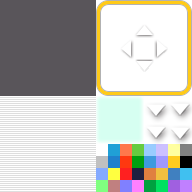
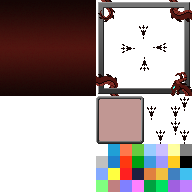
updated window skin
swaggy window skin from hiddenone

diff --git a/js/plugins.js b/js/plugins.js
@@ -189,7 +189,7 @@ var $plugins =
 {"name":"YEP_CommonEventMenu","status":true,"description":"v1.04 This plugin allows the creation of windows to call\ncommon events with.","parameters":{"---Defaults---":"","Default Icon":"188","Default Help":"Use <Help Description> comment tag to add a help description.","Default Subtext":"Subtext here!","Default Cancel Event":"0","---Main Settings---":"","Window X":"0","Window Y":"this.fittingHeight(2)","Window Width":"Graphics.boxWidth / 2","Window Height":"Graphics.boxHeight - this.fittingHeight(2)","Window Columns":"1","Window Opacity":"255","---Help Settings---":"","Show Help":"true","Help X":"0","Help Y":"0","Help Width":"Graphics.boxWidth","Help Height":"this.fittingHeight(2)","Help Opacity":"255","---Picture Settings---":"","Show Picture":"true","Picture X":"Graphics.boxWidth / 2","Picture Y":"this.fittingHeight(2)","Picture Width":"Graphics.boxWidth / 2","Picture Height":"this.fittingHeight(10)","Picture Opacity":"255","---Subtext Settings---":"","Show Subtext":"true","Subtext X":"Graphics.boxWidth / 2","Subtext Y":"Graphics.boxHeight - height","Subtext Width":"Graphics.boxWidth / 2","Subtext Height":"Graphics.boxHeight - this.fittingHeight(2) - this.fittingHeight(10)","Subtext Opacity":"255"}},
 {"name":"YEP_X_CEMSetupPack1","status":true,"description":"v1.00 (Requires YEP_CommonEventMenu.js) Adds more setups\nto use with the Common Event Menu.","parameters":{}},
 {"name":"YEP_X_CEMSetupPack2","status":true,"description":"v1.01 (Requires YEP_CommonEventMenu.js) Adds more setups\nto use with the Common Event Menu.","parameters":{}},
-{"name":"YEP_CreditsPage","status":true,"description":"v1.02 Adds a 'Credits' command to the title screen that\nwill take the player to a credits scene.","parameters":{"---General---":"","Command Name":"Credits","---Credit Lines---":"","Line 1 Text":"(Pressing SPACE on some entries redirects you to the source.)","Line 1 URL":"","Line 2 Text":"\\c[14]--- General Credits ---","Line 2 URL":"","Line 3 Text":"\\c[4]Project Lead\\c[0]: Andrew Pavel","Line 3 URL":"","Line 4 Text":"\\c[4]Programmer\\c[0]: Andrew Pavel","Line 4 URL":"","Line 5 Text":"\\c[4]Doer Of Everything Someone Didn't Do\\c[0]: Brendan Craig","Line 5 URL":"","Line 6 Text":"\\c[4]Core Scripts\\c[0]: Yanfly","Line 6 URL":"http://yanfly.moe","Line 7 Text":"\\c[14]--- Areas ---","Line 7 URL":"","Line 8 Text":"There's too many areas in the game to list here!","Line 8 URL":"","Line 9 Text":"If you want to know who made a specific area, ask in the Discord.","Line 9 URL":"","Line 10 Text":"If you need the link, see the very bottom of this page.","Line 10 URL":"","Line 11 Text":"\\c[14]--- Graphics ---","Line 11 URL":"","Line 12 Text":"\\c[4]Slime Base, Skeleton Base (Overhead)\\c[0]: Chalkdust","Line 12 URL":"https://forums.rpgmakerweb.com/index.php?threads/chalkdust-resources.47335/","Line 13 Text":"\\c[4]Skeleton Base, Soldier (Battle)\\c[0]: Aleph Null","Line 13 URL":"https://forums.rpgmakerweb.com/index.php?threads/aleph-nulls-resources-update-7-3-16-weapon-icons.63331/","Line 14 Text":"\\c[4]Character Helmet\\c[0]: KaiWeWi","Line 14 URL":"https://forums.rpgmakerweb.com/index.php?threads/kais-resources-for-mv.78751/","Line 15 Text":"\\c[4]Non-RTP Animals, Weapons\\c[0]: whtdragon","Line 15 URL":"https://forums.rpgmakerweb.com/index.php?threads/whtdragons-animals-and-running-horses-now-with-more-dragons.53552/","Line 16 Text":"\\c[4]Military on Horses\\c[0]: Avery","Line 16 URL":"https://forums.rpgmakerweb.com/index.php?threads/avys-mv-stuff.53317/","Line 17 Text":"\\c[4]Goblins, Suffering Soul\\c[0]: hiddenone","Line 17 URL":"https://www.hiddenone-sprites.com/other-mv-resources.html","Line 18 Text":"\\c[4]Mask Generator Part\\c[0]: Bokou","Line 18 URL":"https://forums.rpgmakerweb.com/index.php?threads/bokous-freesources-added-gothic-tileset.48613/","Line 19 Text":"\\c[4]Evil SV Battlers\\c[0]: RavenBlackbird","Line 19 URL":"https://forums.rpgmakerweb.com/index.php?threads/sprited-sv_enemies.60465/","Line 20 Text":"\\c[14]--- Plugins ---","Line 20 URL":"","Line 21 Text":"\\c[4]Meta Controls\\c[0]: Fallen Angel Olivia","Line 21 URL":"https://fallenangelolivia.itch.io/meta-controls","Line 22 Text":"\\c[4]DisableOrChangeBattleStartSound\\c[0]: DreamX","Line 22 URL":"https://raw.githubusercontent.com/DreamXRMMV/Rpg-Maker-MV/master/DreamX_BattleSE.js","Line 23 Text":"\\c[4]Minimum Damage\\c[0]: Mr. Trivel","Line 23 URL":"https://www.rpgmakercentral.com/topic/35423-minimum-damage/","Line 24 Text":"\\c[4]Restore HP/MP on level up\\c[0]: Mr. Trivel","Line 24 URL":"https://www.rpgmakercentral.com/topic/37738-restore-hpmptp/","Line 25 Text":"\\c[4]Version Indicator, Extra Stats\\c[0]: Casper Gaming","Line 25 URL":"http://www.caspergaming.com/dev/cgmv/","Line 26 Text":"\\c[4]Game Over Core, Retry Upgrade, STE, Shaky Text\\c[0]: SumRndmDde","Line 26 URL":"http://sumrndm.site","Line 27 Text":"\\c[4]Alphabetical Sort\\c[0]: Melosx","Line 27 URL":"https://forums.rpgmakerweb.com/index.php?threads/msx-alphabetical-sort.73991/","Line 28 Text":"\\c[4]Performance Upgrade\\c[0]: RPG Maker Irina","Line 28 URL":"https://atelieririna.itch.io/performance-upgrade","Line 29 Text":"\\c[4]Auto Message Colors\\c[0]: RPG Maker Irina","Line 29 URL":"https://atelieririna.itch.io/automatic-message-colors-plugin","Line 30 Text":"\\c[4]Smooth Camera, Menu Fade, Move Route Extras\\c[0]: Galv","Line 30 URL":"https://galvs-scripts.com/","Line 31 Text":"\\c[4]FixPixel.js\\c[0]: Sparckman","Line 31 URL":"https://sparckmantutorials.weebly.com/rpg-maker.html","Line 32 Text":"\\c[4]LargeSpriteFix\\c[0]: Neon Black, Shaz","Line 32 URL":"https://forums.rpgmakerweb.com/index.php?threads/neon-blacks-large-sprite-fix.50274/","Line 33 Text":"\\c[4]Reload Confirm\\[0]: LadyBaskerville","Line 33 URL":"https://forums.rpgmakerweb.com/index.php?threads/confirm-reload.72679/","Line 34 Text":"\\c[4]UltraMode7\\c[0]: Boris \"Blizzard\" Mikić","Line 34 URL":"https://forums.rpgmakerweb.com/index.php?threads/ultra-mode-7.94100/","Line 35 Text":"\\c[4]SkipPartyCommand\\c[0]: Tsumio","Line 35 URL":"https://forums.rpgmakerweb.com/index.php?threads/skippartycommand.102821/","Line 36 Text":"\\c[14]--- Odd Jobs---","Line 36 URL":"","Line 37 Text":"Thanks to everyone who contributed!","Line 37 URL":"","Line 38 Text":"\\c[4]Brendan Craig","Line 38 URL":"","Line 39 Text":"\\c[4]Edgar Moore","Line 39 URL":"","Line 40 Text":"\\c[4]Andrew Pavel","Line 40 URL":"","Line 41 Text":"\\c[4]Mankeerat Rataul","Line 41 URL":"","Line 42 Text":"\\c[14]--- Acknowledgements ---","Line 42 URL":"","Line 43 Text":"\\c[4]Thanks to everyone who helped test the game.","Line 43 URL":"","Line 44 Text":"Check out our \\c[18]Discord\\c[0] at \\c[4]https://discord.gg/Ptp66Yx","Line 44 URL":"https://discord.gg/Ptp66Yx","Line 45 Text":"","Line 45 URL":"","Line 46 Text":"","Line 46 URL":"","Line 47 Text":"","Line 47 URL":"","Line 48 Text":"","Line 48 URL":"","Line 49 Text":"","Line 49 URL":"","Line 50 Text":"","Line 50 URL":"","Line 51 Text":"","Line 51 URL":"","Line 52 Text":"","Line 52 URL":"","Line 53 Text":"","Line 53 URL":"","Line 54 Text":"","Line 54 URL":"","Line 55 Text":"","Line 55 URL":"","Line 56 Text":"","Line 56 URL":"","Line 57 Text":"","Line 57 URL":"","Line 58 Text":"","Line 58 URL":"","Line 59 Text":"","Line 59 URL":"","Line 60 Text":"","Line 60 URL":"","Line 61 Text":"","Line 61 URL":"","Line 62 Text":"","Line 62 URL":"","Line 63 Text":"","Line 63 URL":"","Line 64 Text":"","Line 64 URL":"","Line 65 Text":"","Line 65 URL":"","Line 66 Text":"","Line 66 URL":"","Line 67 Text":"","Line 67 URL":"","Line 68 Text":"","Line 68 URL":"","Line 69 Text":"","Line 69 URL":"","Line 70 Text":"","Line 70 URL":"","Line 71 Text":"","Line 71 URL":"","Line 72 Text":"","Line 72 URL":"","Line 73 Text":"","Line 73 URL":"","Line 74 Text":"","Line 74 URL":"","Line 75 Text":"","Line 75 URL":"","Line 76 Text":"","Line 76 URL":"","Line 77 Text":"","Line 77 URL":"","Line 78 Text":"","Line 78 URL":"","Line 79 Text":"","Line 79 URL":"","Line 80 Text":"","Line 80 URL":"","Line 81 Text":"","Line 81 URL":"","Line 82 Text":"","Line 82 URL":"","Line 83 Text":"","Line 83 URL":"","Line 84 Text":"","Line 84 URL":"","Line 85 Text":"","Line 85 URL":"","Line 86 Text":"","Line 86 URL":"","Line 87 Text":"","Line 87 URL":"","Line 88 Text":"","Line 88 URL":"","Line 89 Text":"","Line 89 URL":"","Line 90 Text":"","Line 90 URL":"","Line 91 Text":"","Line 91 URL":"","Line 92 Text":"","Line 92 URL":"","Line 93 Text":"","Line 93 URL":"","Line 94 Text":"","Line 94 URL":"","Line 95 Text":"","Line 95 URL":"","Line 96 Text":"","Line 96 URL":"","Line 97 Text":"","Line 97 URL":"","Line 98 Text":"","Line 98 URL":"","Line 99 Text":"","Line 99 URL":"","Line 100 Text":"","Line 100 URL":"","Line 101 Text":"","Line 101 URL":"","Line 102 Text":"","Line 102 URL":"","Line 103 Text":"","Line 103 URL":"","Line 104 Text":"","Line 104 URL":"","Line 105 Text":"","Line 105 URL":"","Line 106 Text":"","Line 106 URL":"","Line 107 Text":"","Line 107 URL":"","Line 108 Text":"","Line 108 URL":"","Line 109 Text":"","Line 109 URL":"","Line 110 Text":"","Line 110 URL":"","Line 111 Text":"","Line 111 URL":"","Line 112 Text":"","Line 112 URL":"","Line 113 Text":"","Line 113 URL":"","Line 114 Text":"","Line 114 URL":"","Line 115 Text":"","Line 115 URL":"","Line 116 Text":"","Line 116 URL":"","Line 117 Text":"","Line 117 URL":"","Line 118 Text":"","Line 118 URL":"","Line 119 Text":"","Line 119 URL":"","Line 120 Text":"","Line 120 URL":"","Line 121 Text":"","Line 121 URL":"","Line 122 Text":"","Line 122 URL":"","Line 123 Text":"","Line 123 URL":"","Line 124 Text":"","Line 124 URL":"","Line 125 Text":"","Line 125 URL":"","Line 126 Text":"","Line 126 URL":"","Line 127 Text":"","Line 127 URL":"","Line 128 Text":"","Line 128 URL":"","Line 129 Text":"","Line 129 URL":"","Line 130 Text":"","Line 130 URL":"","Line 131 Text":"","Line 131 URL":"","Line 132 Text":"","Line 132 URL":"","Line 133 Text":"","Line 133 URL":"","Line 134 Text":"","Line 134 URL":"","Line 135 Text":"","Line 135 URL":"","Line 136 Text":"","Line 136 URL":"","Line 137 Text":"","Line 137 URL":"","Line 138 Text":"","Line 138 URL":"","Line 139 Text":"","Line 139 URL":"","Line 140 Text":"","Line 140 URL":"","Line 141 Text":"","Line 141 URL":"","Line 142 Text":"","Line 142 URL":"","Line 143 Text":"","Line 143 URL":"","Line 144 Text":"","Line 144 URL":"","Line 145 Text":"","Line 145 URL":"","Line 146 Text":"","Line 146 URL":"","Line 147 Text":"","Line 147 URL":"","Line 148 Text":"","Line 148 URL":"","Line 149 Text":"","Line 149 URL":"","Line 150 Text":"","Line 150 URL":"","Line 151 Text":"","Line 151 URL":"","Line 152 Text":"","Line 152 URL":"","Line 153 Text":"","Line 153 URL":"","Line 154 Text":"","Line 154 URL":"","Line 155 Text":"","Line 155 URL":"","Line 156 Text":"","Line 156 URL":"","Line 157 Text":"","Line 157 URL":"","Line 158 Text":"","Line 158 URL":"","Line 159 Text":"","Line 159 URL":"","Line 160 Text":"","Line 160 URL":"","Line 161 Text":"","Line 161 URL":"","Line 162 Text":"","Line 162 URL":"","Line 163 Text":"","Line 163 URL":"","Line 164 Text":"","Line 164 URL":"","Line 165 Text":"","Line 165 URL":"","Line 166 Text":"","Line 166 URL":"","Line 167 Text":"","Line 167 URL":"","Line 168 Text":"","Line 168 URL":"","Line 169 Text":"","Line 169 URL":"","Line 170 Text":"","Line 170 URL":"","Line 171 Text":"","Line 171 URL":"","Line 172 Text":"","Line 172 URL":"","Line 173 Text":"","Line 173 URL":"","Line 174 Text":"","Line 174 URL":"","Line 175 Text":"","Line 175 URL":"","Line 176 Text":"","Line 176 URL":"","Line 177 Text":"","Line 177 URL":"","Line 178 Text":"","Line 178 URL":"","Line 179 Text":"","Line 179 URL":"","Line 180 Text":"","Line 180 URL":"","Line 181 Text":"","Line 181 URL":"","Line 182 Text":"","Line 182 URL":"","Line 183 Text":"","Line 183 URL":"","Line 184 Text":"","Line 184 URL":"","Line 185 Text":"","Line 185 URL":"","Line 186 Text":"","Line 186 URL":"","Line 187 Text":"","Line 187 URL":"","Line 188 Text":"","Line 188 URL":"","Line 189 Text":"","Line 189 URL":"","Line 190 Text":"","Line 190 URL":"","Line 191 Text":"","Line 191 URL":"","Line 192 Text":"","Line 192 URL":"","Line 193 Text":"","Line 193 URL":"","Line 194 Text":"","Line 194 URL":"","Line 195 Text":"","Line 195 URL":"","Line 196 Text":"","Line 196 URL":"","Line 197 Text":"","Line 197 URL":"","Line 198 Text":"","Line 198 URL":"","Line 199 Text":"","Line 199 URL":"","Line 200 Text":"","Line 200 URL":"","Line 201 Text":"","Line 201 URL":"","Line 202 Text":"","Line 202 URL":"","Line 203 Text":"","Line 203 URL":"","Line 204 Text":"","Line 204 URL":"","Line 205 Text":"","Line 205 URL":"","Line 206 Text":"","Line 206 URL":"","Line 207 Text":"","Line 207 URL":"","Line 208 Text":"","Line 208 URL":"","Line 209 Text":"","Line 209 URL":"","Line 210 Text":"","Line 210 URL":"","Line 211 Text":"","Line 211 URL":"","Line 212 Text":"","Line 212 URL":"","Line 213 Text":"","Line 213 URL":"","Line 214 Text":"","Line 214 URL":"","Line 215 Text":"","Line 215 URL":"","Line 216 Text":"","Line 216 URL":"","Line 217 Text":"","Line 217 URL":"","Line 218 Text":"","Line 218 URL":"","Line 219 Text":"","Line 219 URL":"","Line 220 Text":"","Line 220 URL":"","Line 221 Text":"","Line 221 URL":"","Line 222 Text":"","Line 222 URL":"","Line 223 Text":"","Line 223 URL":"","Line 224 Text":"","Line 224 URL":"","Line 225 Text":"","Line 225 URL":"","Line 226 Text":"","Line 226 URL":"","Line 227 Text":"","Line 227 URL":"","Line 228 Text":"","Line 228 URL":"","Line 229 Text":"","Line 229 URL":"","Line 230 Text":"","Line 230 URL":"","Line 231 Text":"","Line 231 URL":"","Line 232 Text":"","Line 232 URL":"","Line 233 Text":"","Line 233 URL":"","Line 234 Text":"","Line 234 URL":"","Line 235 Text":"","Line 235 URL":"","Line 236 Text":"","Line 236 URL":"","Line 237 Text":"","Line 237 URL":"","Line 238 Text":"","Line 238 URL":"","Line 239 Text":"","Line 239 URL":"","Line 240 Text":"","Line 240 URL":"","Line 241 Text":"","Line 241 URL":"","Line 242 Text":"","Line 242 URL":"","Line 243 Text":"","Line 243 URL":"","Line 244 Text":"","Line 244 URL":"","Line 245 Text":"","Line 245 URL":"","Line 246 Text":"","Line 246 URL":"","Line 247 Text":"","Line 247 URL":"","Line 248 Text":"","Line 248 URL":"","Line 249 Text":"","Line 249 URL":"","Line 250 Text":"","Line 250 URL":"","Line 251 Text":"","Line 251 URL":"","Line 252 Text":"","Line 252 URL":"","Line 253 Text":"","Line 253 URL":"","Line 254 Text":"","Line 254 URL":"","Line 255 Text":"","Line 255 URL":"","Line 256 Text":"","Line 256 URL":"","Line 257 Text":"","Line 257 URL":"","Line 258 Text":"","Line 258 URL":"","Line 259 Text":"","Line 259 URL":"","Line 260 Text":"","Line 260 URL":"","Line 261 Text":"","Line 261 URL":"","Line 262 Text":"","Line 262 URL":"","Line 263 Text":"","Line 263 URL":"","Line 264 Text":"","Line 264 URL":"","Line 265 Text":"","Line 265 URL":"","Line 266 Text":"","Line 266 URL":"","Line 267 Text":"","Line 267 URL":"","Line 268 Text":"","Line 268 URL":"","Line 269 Text":"","Line 269 URL":"","Line 270 Text":"","Line 270 URL":"","Line 271 Text":"","Line 271 URL":"","Line 272 Text":"","Line 272 URL":"","Line 273 Text":"","Line 273 URL":"","Line 274 Text":"","Line 274 URL":"","Line 275 Text":"","Line 275 URL":"","Line 276 Text":"","Line 276 URL":"","Line 277 Text":"","Line 277 URL":"","Line 278 Text":"","Line 278 URL":"","Line 279 Text":"","Line 279 URL":"","Line 280 Text":"","Line 280 URL":"","Line 281 Text":"","Line 281 URL":"","Line 282 Text":"","Line 282 URL":"","Line 283 Text":"","Line 283 URL":"","Line 284 Text":"","Line 284 URL":"","Line 285 Text":"","Line 285 URL":"","Line 286 Text":"","Line 286 URL":"","Line 287 Text":"","Line 287 URL":"","Line 288 Text":"","Line 288 URL":"","Line 289 Text":"","Line 289 URL":"","Line 290 Text":"","Line 290 URL":"","Line 291 Text":"","Line 291 URL":"","Line 292 Text":"","Line 292 URL":"","Line 293 Text":"","Line 293 URL":"","Line 294 Text":"","Line 294 URL":"","Line 295 Text":"","Line 295 URL":"","Line 296 Text":"","Line 296 URL":"","Line 297 Text":"","Line 297 URL":"","Line 298 Text":"","Line 298 URL":"","Line 299 Text":"","Line 299 URL":"","Line 300 Text":"","Line 300 URL":""}},
+{"name":"YEP_CreditsPage","status":true,"description":"v1.02 Adds a 'Credits' command to the title screen that\nwill take the player to a credits scene.","parameters":{"---General---":"","Command Name":"Credits","---Credit Lines---":"","Line 1 Text":"(Pressing SPACE on some entries redirects you to the source.)","Line 1 URL":"","Line 2 Text":"\\c[14]--- General Credits ---","Line 2 URL":"","Line 3 Text":"\\c[4]Project Lead\\c[0]: Andrew Pavel","Line 3 URL":"","Line 4 Text":"\\c[4]Programmer\\c[0]: Andrew Pavel","Line 4 URL":"","Line 5 Text":"\\c[4]Doer Of Everything Someone Didn't Do\\c[0]: Brendan Craig","Line 5 URL":"","Line 6 Text":"\\c[4]Core Scripts\\c[0]: Yanfly","Line 6 URL":"http://yanfly.moe","Line 7 Text":"\\c[14]--- Areas ---","Line 7 URL":"","Line 8 Text":"There's too many areas in the game to list here!","Line 8 URL":"","Line 9 Text":"If you want to know who made a specific area, ask in the Discord.","Line 9 URL":"","Line 10 Text":"If you need the link, see the very bottom of this page.","Line 10 URL":"","Line 11 Text":"\\c[14]--- Graphics ---","Line 11 URL":"","Line 12 Text":"\\c[4]Slime Base, Skeleton Base (Overhead)\\c[0]: Chalkdust","Line 12 URL":"https://forums.rpgmakerweb.com/index.php?threads/chalkdust-resources.47335/","Line 13 Text":"\\c[4]Skeleton Base, Soldier (Battle)\\c[0]: Aleph Null","Line 13 URL":"https://forums.rpgmakerweb.com/index.php?threads/aleph-nulls-resources-update-7-3-16-weapon-icons.63331/","Line 14 Text":"\\c[4]Character Helmet\\c[0]: KaiWeWi","Line 14 URL":"https://forums.rpgmakerweb.com/index.php?threads/kais-resources-for-mv.78751/","Line 15 Text":"\\c[4]Non-RTP Animals, Weapons\\c[0]: whtdragon","Line 15 URL":"https://forums.rpgmakerweb.com/index.php?threads/whtdragons-animals-and-running-horses-now-with-more-dragons.53552/","Line 16 Text":"\\c[4]Military on Horses\\c[0]: Avery","Line 16 URL":"https://forums.rpgmakerweb.com/index.php?threads/avys-mv-stuff.53317/","Line 17 Text":"\\c[4]Goblins, Suffering Soul, Window Skin\\c[0]: hiddenone","Line 17 URL":"https://www.hiddenone-sprites.com/other-mv-resources.html","Line 18 Text":"\\c[4]Mask Generator Part\\c[0]: Bokou","Line 18 URL":"https://forums.rpgmakerweb.com/index.php?threads/bokous-freesources-added-gothic-tileset.48613/","Line 19 Text":"\\c[4]Evil SV Battlers\\c[0]: RavenBlackbird","Line 19 URL":"https://forums.rpgmakerweb.com/index.php?threads/sprited-sv_enemies.60465/","Line 20 Text":"\\c[14]--- Plugins ---","Line 20 URL":"","Line 21 Text":"\\c[4]Meta Controls\\c[0]: Fallen Angel Olivia","Line 21 URL":"https://fallenangelolivia.itch.io/meta-controls","Line 22 Text":"\\c[4]DisableOrChangeBattleStartSound\\c[0]: DreamX","Line 22 URL":"https://raw.githubusercontent.com/DreamXRMMV/Rpg-Maker-MV/master/DreamX_BattleSE.js","Line 23 Text":"\\c[4]Minimum Damage\\c[0]: Mr. Trivel","Line 23 URL":"https://www.rpgmakercentral.com/topic/35423-minimum-damage/","Line 24 Text":"\\c[4]Restore HP/MP on level up\\c[0]: Mr. Trivel","Line 24 URL":"https://www.rpgmakercentral.com/topic/37738-restore-hpmptp/","Line 25 Text":"\\c[4]Version Indicator, Extra Stats\\c[0]: Casper Gaming","Line 25 URL":"http://www.caspergaming.com/dev/cgmv/","Line 26 Text":"\\c[4]Game Over Core, Retry Upgrade, STE, Shaky Text\\c[0]: SumRndmDde","Line 26 URL":"http://sumrndm.site","Line 27 Text":"\\c[4]Alphabetical Sort\\c[0]: Melosx","Line 27 URL":"https://forums.rpgmakerweb.com/index.php?threads/msx-alphabetical-sort.73991/","Line 28 Text":"\\c[4]Performance Upgrade\\c[0]: RPG Maker Irina","Line 28 URL":"https://atelieririna.itch.io/performance-upgrade","Line 29 Text":"\\c[4]Auto Message Colors\\c[0]: RPG Maker Irina","Line 29 URL":"https://atelieririna.itch.io/automatic-message-colors-plugin","Line 30 Text":"\\c[4]Smooth Camera, Menu Fade, Move Route Extras\\c[0]: Galv","Line 30 URL":"https://galvs-scripts.com/","Line 31 Text":"\\c[4]FixPixel.js\\c[0]: Sparckman","Line 31 URL":"https://sparckmantutorials.weebly.com/rpg-maker.html","Line 32 Text":"\\c[4]LargeSpriteFix\\c[0]: Neon Black, Shaz","Line 32 URL":"https://forums.rpgmakerweb.com/index.php?threads/neon-blacks-large-sprite-fix.50274/","Line 33 Text":"\\c[4]Reload Confirm\\[0]: LadyBaskerville","Line 33 URL":"https://forums.rpgmakerweb.com/index.php?threads/confirm-reload.72679/","Line 34 Text":"\\c[4]UltraMode7\\c[0]: Boris \"Blizzard\" Mikić","Line 34 URL":"https://forums.rpgmakerweb.com/index.php?threads/ultra-mode-7.94100/","Line 35 Text":"\\c[4]SkipPartyCommand\\c[0]: Tsumio","Line 35 URL":"https://forums.rpgmakerweb.com/index.php?threads/skippartycommand.102821/","Line 36 Text":"\\c[14]--- Odd Jobs---","Line 36 URL":"","Line 37 Text":"Thanks to everyone who contributed!","Line 37 URL":"","Line 38 Text":"\\c[4]Brendan Craig","Line 38 URL":"","Line 39 Text":"\\c[4]Edgar Moore","Line 39 URL":"","Line 40 Text":"\\c[4]Andrew Pavel","Line 40 URL":"","Line 41 Text":"\\c[4]Mankeerat Rataul","Line 41 URL":"","Line 42 Text":"\\c[14]--- Acknowledgements ---","Line 42 URL":"","Line 43 Text":"\\c[4]Thanks to everyone who helped test the game.","Line 43 URL":"","Line 44 Text":"Check out our \\c[18]Discord\\c[0] at \\c[4]https://discord.gg/Ptp66Yx","Line 44 URL":"https://discord.gg/Ptp66Yx","Line 45 Text":"","Line 45 URL":"","Line 46 Text":"","Line 46 URL":"","Line 47 Text":"","Line 47 URL":"","Line 48 Text":"","Line 48 URL":"","Line 49 Text":"","Line 49 URL":"","Line 50 Text":"","Line 50 URL":"","Line 51 Text":"","Line 51 URL":"","Line 52 Text":"","Line 52 URL":"","Line 53 Text":"","Line 53 URL":"","Line 54 Text":"","Line 54 URL":"","Line 55 Text":"","Line 55 URL":"","Line 56 Text":"","Line 56 URL":"","Line 57 Text":"","Line 57 URL":"","Line 58 Text":"","Line 58 URL":"","Line 59 Text":"","Line 59 URL":"","Line 60 Text":"","Line 60 URL":"","Line 61 Text":"","Line 61 URL":"","Line 62 Text":"","Line 62 URL":"","Line 63 Text":"","Line 63 URL":"","Line 64 Text":"","Line 64 URL":"","Line 65 Text":"","Line 65 URL":"","Line 66 Text":"","Line 66 URL":"","Line 67 Text":"","Line 67 URL":"","Line 68 Text":"","Line 68 URL":"","Line 69 Text":"","Line 69 URL":"","Line 70 Text":"","Line 70 URL":"","Line 71 Text":"","Line 71 URL":"","Line 72 Text":"","Line 72 URL":"","Line 73 Text":"","Line 73 URL":"","Line 74 Text":"","Line 74 URL":"","Line 75 Text":"","Line 75 URL":"","Line 76 Text":"","Line 76 URL":"","Line 77 Text":"","Line 77 URL":"","Line 78 Text":"","Line 78 URL":"","Line 79 Text":"","Line 79 URL":"","Line 80 Text":"","Line 80 URL":"","Line 81 Text":"","Line 81 URL":"","Line 82 Text":"","Line 82 URL":"","Line 83 Text":"","Line 83 URL":"","Line 84 Text":"","Line 84 URL":"","Line 85 Text":"","Line 85 URL":"","Line 86 Text":"","Line 86 URL":"","Line 87 Text":"","Line 87 URL":"","Line 88 Text":"","Line 88 URL":"","Line 89 Text":"","Line 89 URL":"","Line 90 Text":"","Line 90 URL":"","Line 91 Text":"","Line 91 URL":"","Line 92 Text":"","Line 92 URL":"","Line 93 Text":"","Line 93 URL":"","Line 94 Text":"","Line 94 URL":"","Line 95 Text":"","Line 95 URL":"","Line 96 Text":"","Line 96 URL":"","Line 97 Text":"","Line 97 URL":"","Line 98 Text":"","Line 98 URL":"","Line 99 Text":"","Line 99 URL":"","Line 100 Text":"","Line 100 URL":"","Line 101 Text":"","Line 101 URL":"","Line 102 Text":"","Line 102 URL":"","Line 103 Text":"","Line 103 URL":"","Line 104 Text":"","Line 104 URL":"","Line 105 Text":"","Line 105 URL":"","Line 106 Text":"","Line 106 URL":"","Line 107 Text":"","Line 107 URL":"","Line 108 Text":"","Line 108 URL":"","Line 109 Text":"","Line 109 URL":"","Line 110 Text":"","Line 110 URL":"","Line 111 Text":"","Line 111 URL":"","Line 112 Text":"","Line 112 URL":"","Line 113 Text":"","Line 113 URL":"","Line 114 Text":"","Line 114 URL":"","Line 115 Text":"","Line 115 URL":"","Line 116 Text":"","Line 116 URL":"","Line 117 Text":"","Line 117 URL":"","Line 118 Text":"","Line 118 URL":"","Line 119 Text":"","Line 119 URL":"","Line 120 Text":"","Line 120 URL":"","Line 121 Text":"","Line 121 URL":"","Line 122 Text":"","Line 122 URL":"","Line 123 Text":"","Line 123 URL":"","Line 124 Text":"","Line 124 URL":"","Line 125 Text":"","Line 125 URL":"","Line 126 Text":"","Line 126 URL":"","Line 127 Text":"","Line 127 URL":"","Line 128 Text":"","Line 128 URL":"","Line 129 Text":"","Line 129 URL":"","Line 130 Text":"","Line 130 URL":"","Line 131 Text":"","Line 131 URL":"","Line 132 Text":"","Line 132 URL":"","Line 133 Text":"","Line 133 URL":"","Line 134 Text":"","Line 134 URL":"","Line 135 Text":"","Line 135 URL":"","Line 136 Text":"","Line 136 URL":"","Line 137 Text":"","Line 137 URL":"","Line 138 Text":"","Line 138 URL":"","Line 139 Text":"","Line 139 URL":"","Line 140 Text":"","Line 140 URL":"","Line 141 Text":"","Line 141 URL":"","Line 142 Text":"","Line 142 URL":"","Line 143 Text":"","Line 143 URL":"","Line 144 Text":"","Line 144 URL":"","Line 145 Text":"","Line 145 URL":"","Line 146 Text":"","Line 146 URL":"","Line 147 Text":"","Line 147 URL":"","Line 148 Text":"","Line 148 URL":"","Line 149 Text":"","Line 149 URL":"","Line 150 Text":"","Line 150 URL":"","Line 151 Text":"","Line 151 URL":"","Line 152 Text":"","Line 152 URL":"","Line 153 Text":"","Line 153 URL":"","Line 154 Text":"","Line 154 URL":"","Line 155 Text":"","Line 155 URL":"","Line 156 Text":"","Line 156 URL":"","Line 157 Text":"","Line 157 URL":"","Line 158 Text":"","Line 158 URL":"","Line 159 Text":"","Line 159 URL":"","Line 160 Text":"","Line 160 URL":"","Line 161 Text":"","Line 161 URL":"","Line 162 Text":"","Line 162 URL":"","Line 163 Text":"","Line 163 URL":"","Line 164 Text":"","Line 164 URL":"","Line 165 Text":"","Line 165 URL":"","Line 166 Text":"","Line 166 URL":"","Line 167 Text":"","Line 167 URL":"","Line 168 Text":"","Line 168 URL":"","Line 169 Text":"","Line 169 URL":"","Line 170 Text":"","Line 170 URL":"","Line 171 Text":"","Line 171 URL":"","Line 172 Text":"","Line 172 URL":"","Line 173 Text":"","Line 173 URL":"","Line 174 Text":"","Line 174 URL":"","Line 175 Text":"","Line 175 URL":"","Line 176 Text":"","Line 176 URL":"","Line 177 Text":"","Line 177 URL":"","Line 178 Text":"","Line 178 URL":"","Line 179 Text":"","Line 179 URL":"","Line 180 Text":"","Line 180 URL":"","Line 181 Text":"","Line 181 URL":"","Line 182 Text":"","Line 182 URL":"","Line 183 Text":"","Line 183 URL":"","Line 184 Text":"","Line 184 URL":"","Line 185 Text":"","Line 185 URL":"","Line 186 Text":"","Line 186 URL":"","Line 187 Text":"","Line 187 URL":"","Line 188 Text":"","Line 188 URL":"","Line 189 Text":"","Line 189 URL":"","Line 190 Text":"","Line 190 URL":"","Line 191 Text":"","Line 191 URL":"","Line 192 Text":"","Line 192 URL":"","Line 193 Text":"","Line 193 URL":"","Line 194 Text":"","Line 194 URL":"","Line 195 Text":"","Line 195 URL":"","Line 196 Text":"","Line 196 URL":"","Line 197 Text":"","Line 197 URL":"","Line 198 Text":"","Line 198 URL":"","Line 199 Text":"","Line 199 URL":"","Line 200 Text":"","Line 200 URL":"","Line 201 Text":"","Line 201 URL":"","Line 202 Text":"","Line 202 URL":"","Line 203 Text":"","Line 203 URL":"","Line 204 Text":"","Line 204 URL":"","Line 205 Text":"","Line 205 URL":"","Line 206 Text":"","Line 206 URL":"","Line 207 Text":"","Line 207 URL":"","Line 208 Text":"","Line 208 URL":"","Line 209 Text":"","Line 209 URL":"","Line 210 Text":"","Line 210 URL":"","Line 211 Text":"","Line 211 URL":"","Line 212 Text":"","Line 212 URL":"","Line 213 Text":"","Line 213 URL":"","Line 214 Text":"","Line 214 URL":"","Line 215 Text":"","Line 215 URL":"","Line 216 Text":"","Line 216 URL":"","Line 217 Text":"","Line 217 URL":"","Line 218 Text":"","Line 218 URL":"","Line 219 Text":"","Line 219 URL":"","Line 220 Text":"","Line 220 URL":"","Line 221 Text":"","Line 221 URL":"","Line 222 Text":"","Line 222 URL":"","Line 223 Text":"","Line 223 URL":"","Line 224 Text":"","Line 224 URL":"","Line 225 Text":"","Line 225 URL":"","Line 226 Text":"","Line 226 URL":"","Line 227 Text":"","Line 227 URL":"","Line 228 Text":"","Line 228 URL":"","Line 229 Text":"","Line 229 URL":"","Line 230 Text":"","Line 230 URL":"","Line 231 Text":"","Line 231 URL":"","Line 232 Text":"","Line 232 URL":"","Line 233 Text":"","Line 233 URL":"","Line 234 Text":"","Line 234 URL":"","Line 235 Text":"","Line 235 URL":"","Line 236 Text":"","Line 236 URL":"","Line 237 Text":"","Line 237 URL":"","Line 238 Text":"","Line 238 URL":"","Line 239 Text":"","Line 239 URL":"","Line 240 Text":"","Line 240 URL":"","Line 241 Text":"","Line 241 URL":"","Line 242 Text":"","Line 242 URL":"","Line 243 Text":"","Line 243 URL":"","Line 244 Text":"","Line 244 URL":"","Line 245 Text":"","Line 245 URL":"","Line 246 Text":"","Line 246 URL":"","Line 247 Text":"","Line 247 URL":"","Line 248 Text":"","Line 248 URL":"","Line 249 Text":"","Line 249 URL":"","Line 250 Text":"","Line 250 URL":"","Line 251 Text":"","Line 251 URL":"","Line 252 Text":"","Line 252 URL":"","Line 253 Text":"","Line 253 URL":"","Line 254 Text":"","Line 254 URL":"","Line 255 Text":"","Line 255 URL":"","Line 256 Text":"","Line 256 URL":"","Line 257 Text":"","Line 257 URL":"","Line 258 Text":"","Line 258 URL":"","Line 259 Text":"","Line 259 URL":"","Line 260 Text":"","Line 260 URL":"","Line 261 Text":"","Line 261 URL":"","Line 262 Text":"","Line 262 URL":"","Line 263 Text":"","Line 263 URL":"","Line 264 Text":"","Line 264 URL":"","Line 265 Text":"","Line 265 URL":"","Line 266 Text":"","Line 266 URL":"","Line 267 Text":"","Line 267 URL":"","Line 268 Text":"","Line 268 URL":"","Line 269 Text":"","Line 269 URL":"","Line 270 Text":"","Line 270 URL":"","Line 271 Text":"","Line 271 URL":"","Line 272 Text":"","Line 272 URL":"","Line 273 Text":"","Line 273 URL":"","Line 274 Text":"","Line 274 URL":"","Line 275 Text":"","Line 275 URL":"","Line 276 Text":"","Line 276 URL":"","Line 277 Text":"","Line 277 URL":"","Line 278 Text":"","Line 278 URL":"","Line 279 Text":"","Line 279 URL":"","Line 280 Text":"","Line 280 URL":"","Line 281 Text":"","Line 281 URL":"","Line 282 Text":"","Line 282 URL":"","Line 283 Text":"","Line 283 URL":"","Line 284 Text":"","Line 284 URL":"","Line 285 Text":"","Line 285 URL":"","Line 286 Text":"","Line 286 URL":"","Line 287 Text":"","Line 287 URL":"","Line 288 Text":"","Line 288 URL":"","Line 289 Text":"","Line 289 URL":"","Line 290 Text":"","Line 290 URL":"","Line 291 Text":"","Line 291 URL":"","Line 292 Text":"","Line 292 URL":"","Line 293 Text":"","Line 293 URL":"","Line 294 Text":"","Line 294 URL":"","Line 295 Text":"","Line 295 URL":"","Line 296 Text":"","Line 296 URL":"","Line 297 Text":"","Line 297 URL":"","Line 298 Text":"","Line 298 URL":"","Line 299 Text":"","Line 299 URL":"","Line 300 Text":"","Line 300 URL":""}},
 {"name":"YEP_DashToggle","status":true,"description":"v1.03 RPG Maker MV lacks the ability to toggle dashing\non and off. This plugin will let you do so~","parameters":{}},
 {"name":"YEP_DynamicTitleImages","status":true,"description":"v1.00 Change title images depending on how far along your game\nthe player has progressed.","parameters":{"RequireSaveGame":"true"}},
 {"name":"YEP_ExternalLinks","status":true,"description":"v1.01 Link back to your home page through the title screen\nand also be able to link your players from within the game.","parameters":{"Home Page URL":"https://discord.gg/Ptp66Yx","Home Page Text":"Discord","Popup Blocker Notice":"The link was blocked by a pop-up blocker."}},
